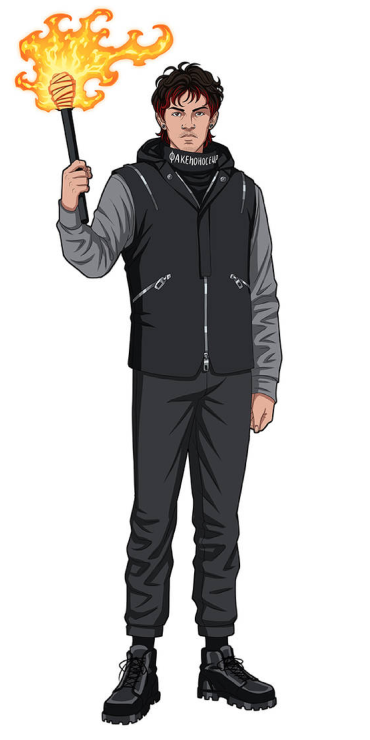
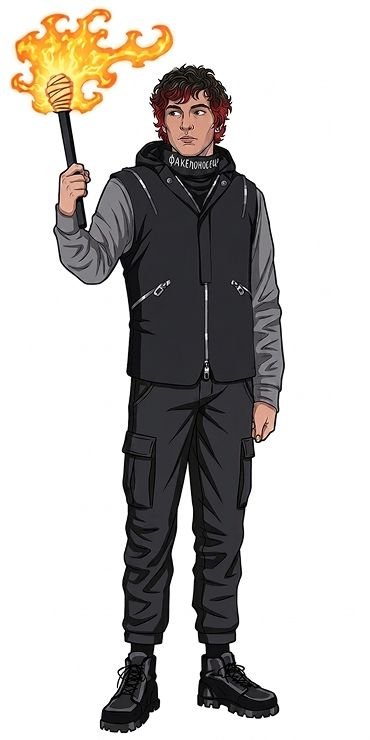
Adicionando hover em alguns botões

Changed region(s): [[0.0297, 0.0, 0.773, 0.9946], [0.3865, 0.4351, 0.4162, 0.4662]]

diff --git a/src/App.tsx b/src/App.tsx
@@ -170,16 +170,18 @@ function App() {
         </div>
         <div className="personagens-group">
           <div className='personagens-costumes'>
-            {activeCharacter.imageUrl.map((index, cont) => (
-              <button
-                key={index}
-                className='costume-button' 
-                onClick={() => changeCostume(index)}
-                style={{ color: activeCharacter.accentColor, borderColor: activeCharacter.accentColor }}
-              >
-                {cont+1}
-              </button>
-            ))}
+            <div className="personagens-numbers">
+              {activeCharacter.imageUrl.map((imageUrl, index) => (
+                <button
+                  key={index}
+                  className={`costume-button ${index === activeCostumeIndex ? 'active' : ''}`}
+                  onClick={() => changeCostume(imageUrl)}
+                  style={{ borderColor: activeCharacter.accentColor }}
+                >
+                  {index + 1}
+                </button>
+              ))}
+            </div>
           </div>
           <img
             src={activeCharacter.imageUrl[activeCostumeIndex]}

diff --git a/src/App.css b/src/App.css
@@ -70,6 +70,10 @@ header h2 {
   margin-right: 100px;
 }
 
+.header-options h2:hover {
+  color: #E5CC0A;
+}
+
 .header-options a {
   text-decoration: none;
   color: inherit;
@@ -240,10 +244,21 @@ header h2 {
   height: 3vh;
   width: 3vh;
   font-size: 18px;
-  color: #DB2422;
   background-color: #000;
-  border-color: #DB2422;
+  color: white;
+  cursor: pointer;
   border-radius: 10px;
+  margin-left: 1vh;
+}
+
+.costume-button:hover {
+  background-color: #424242;
+  color: currentColor;
+}
+
+.costume-button.active {
+  background-color: white;
+  color: #000;
 }
 
 .regioes {
